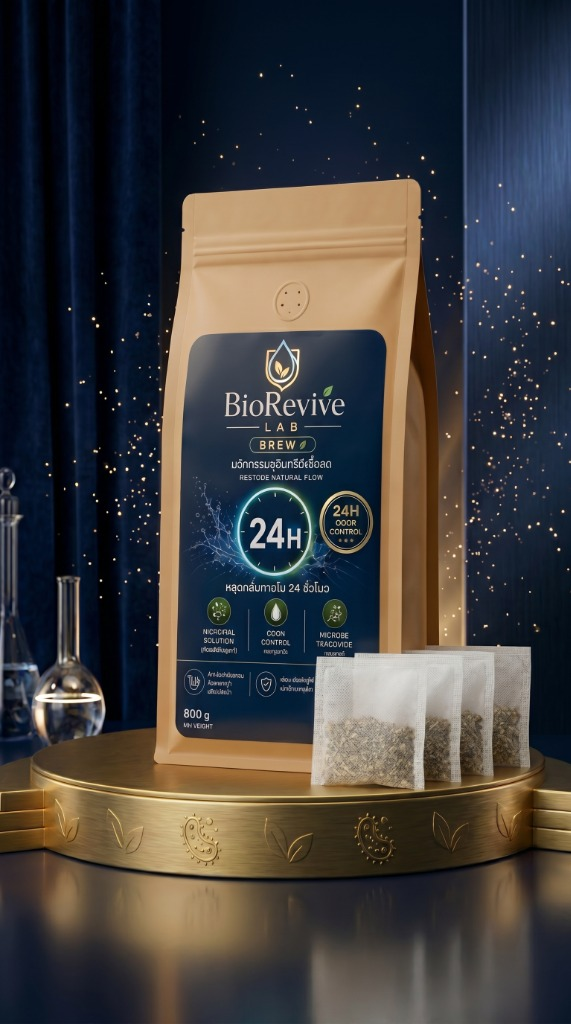
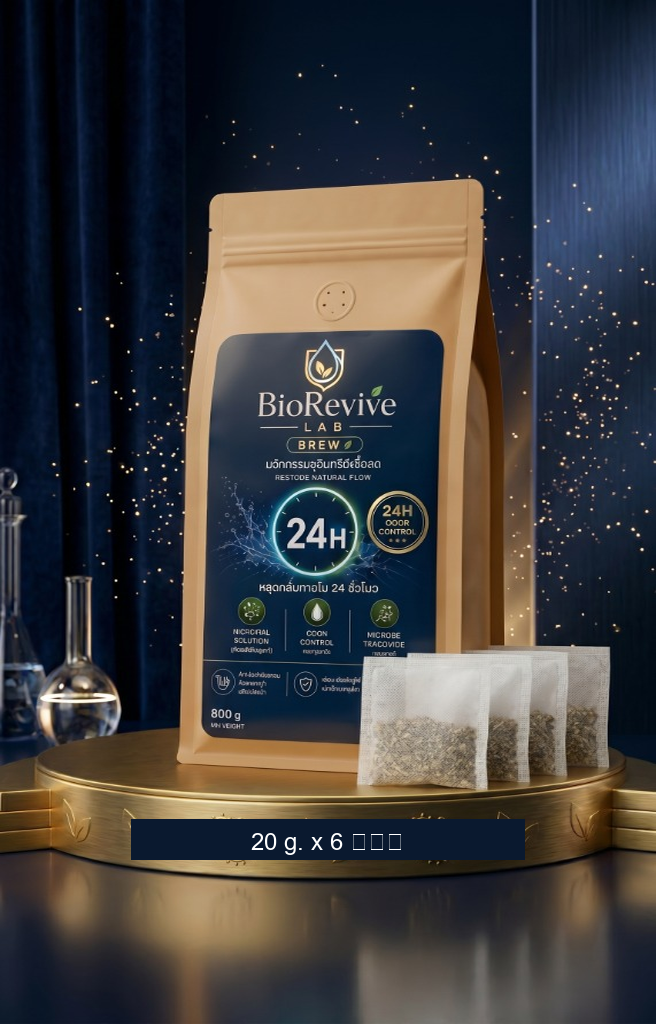
feat: update website with premium product catalogs and separate product ads

Changed region(s): [[0.1786, 0.7812, 0.8039, 0.8438]]

diff --git a/index.html b/index.html
@@ -313,28 +313,43 @@
     <section class="section-padding" id="pricing" style="background:#F8FAFC;">
         <div class="container text-center">
             <h2 data-i18n="prod_title" style="font-size: 2.5rem; margin-bottom: 50px;">ผลิตภัณฑ์ BioRevive Lab</h2>
-            <div style="display:grid; grid-template-columns: repeat(auto-fit, minmax(280px, 1fr)); gap:30px;">
+            <div style="display:grid; grid-template-columns: repeat(auto-fit, minmax(240px, 1fr)); gap:25px;">
+                <!-- 1L Liquid -->
                 <div class="pricing-card">
-                    <img src="assets/ad_liquid.png" style="width:100%; border-radius:15px; margin-bottom:20px;">
-                    <h3 data-i18n="prod_liquid">สูตรน้ำ (Liquid)</h3>
-
-                    <button onclick="addToCart('Liquid 5L', 1890)" class="btn-buy pulse-cta"><span data-i18n="prod_size_5l">5 ลิตร</span>: 1,890 ฿</button>
-                    <button onclick="addToCart('Liquid 1L', 380)" class="btn-buy pulse-cta" style="background:none; border:2px solid #162C4E; color:#162C4E;"><span data-i18n="prod_size_1l">1 ลิตร</span>: 380 ฿</button>
+                    <img src="assets/catalog/catalog_liquid_1l.png" style="width:100%; border-radius:15px; margin-bottom:20px;">
+                    <h3 data-i18n="prod_liquid_1l">สูตรน้ำ 1 ลิตร</h3>
+                    <p style="color:#64748B; margin-bottom:15px;">ทรงเหลี่ยม กะทัดรัด</p>
+                    <button onclick="addToCart('Liquid 1L', 380)" class="btn-buy pulse-cta" style="background:#162C4E;">380 ฿</button>
                 </div>
+                <!-- 5L Liquid -->
                 <div class="pricing-card popular">
-                    <div style="background:#C5A059; color:white; padding:5px 20px; border-radius:20px; font-weight:bold; display:inline-block; margin-bottom:15px;" data-i18n="promo_popular">BEST SELLER</div>
-                    <img src="assets/ad_concentrated.png" style="width:100%; border-radius:15px; margin-bottom:20px;">
-                    <h3 data-i18n="prod_premium">สูตรพรีเมี่ยม (Premium)</h3>
-
-                    <button onclick="addToCart('Premium 6kg', 3500)" class="btn-buy btn-buy-gold pulse-cta"><span data-i18n="prod_size_6kg">6 kg</span>: 3,500 ฿</button>
-                    <button onclick="addToCart('Premium 1kg', 800)" class="btn-buy pulse-cta" style="background:none; border:2px solid #C5A059; color:#C5A059;"><span data-i18n="prod_size_1kg">1 kg</span>: 800 ฿</button>
+                    <div style="background:#C5A059; color:white; padding:5px 15px; border-radius:20px; font-weight:bold; display:inline-block; margin-bottom:10px; font-size:0.8rem;">POPULAR</div>
+                    <img src="assets/catalog/catalog_liquid_5l.png" style="width:100%; border-radius:15px; margin-bottom:20px;">
+                    <h3 data-i18n="prod_liquid_5l">สูตรน้ำ 5 ลิตร</h3>
+                    <p style="color:#64748B; margin-bottom:15px;">ไซส์ประหยัด คุ้มค่า</p>
+                    <button onclick="addToCart('Liquid 5L', 1890)" class="btn-buy btn-buy-gold pulse-cta">1,890 ฿</button>
                 </div>
+                <!-- 1kg Premium -->
                 <div class="pricing-card">
-                    <img src="assets/ad_teabag_final.png" style="width:100%; border-radius:15px; margin-bottom:20px;">
-                    <h3 data-i18n="prod_teabag">แบบซองชา (Tea bag)</h3>
-                    <p data-i18n="prod_teabag_desc" style="margin-bottom:15px; color:#64748B;">1 ซอง บรรจุ 6 ชิ้น / ชิ้นละ 20 g.</p>
-
-                    <button onclick="addToCart('Tea bag 1 pack', 299)" class="btn-buy pulse-cta"><span data-i18n="prod_size_1pack">1 ซอง</span>: 299 ฿</button>
+                    <img src="assets/catalog/catalog_pouch_1kg.png" style="width:100%; border-radius:15px; margin-bottom:20px;">
+                    <h3 data-i18n="prod_premium_1kg">สูตรพรีเมี่ยม 1 kg</h3>
+                    <p style="color:#64748B; margin-bottom:15px;">ชนิดผงเข้มข้น</p>
+                    <button onclick="addToCart('Premium 1kg', 800)" class="btn-buy pulse-cta" style="background:#162C4E;">800 ฿</button>
+                </div>
+                <!-- 6kg Premium -->
+                <div class="pricing-card popular">
+                    <div style="background:#C5A059; color:white; padding:5px 15px; border-radius:20px; font-weight:bold; display:inline-block; margin-bottom:10px; font-size:0.8rem;">BEST VALUE</div>
+                    <img src="assets/catalog/catalog_bucket_6kg.png" style="width:100%; border-radius:15px; margin-bottom:20px;">
+                    <h3 data-i18n="prod_premium_6kg">สูตรพรีเมี่ยม 6 kg</h3>
+                    <p style="color:#64748B; margin-bottom:15px;">ถังใหญ่ สำหรับธุรกิจ</p>
+                    <button onclick="addToCart('Premium 6kg', 3500)" class="btn-buy btn-buy-gold pulse-cta">3,500 ฿</button>
+                </div>
+                <!-- Teabag -->
+                <div class="pricing-card">
+                    <img src="assets/catalog/catalog_teabag.png" style="width:100%; border-radius:15px; margin-bottom:20px;">
+                    <h3 data-i18n="prod_teabag">แบบซองชา 20g</h3>
+                    <p data-i18n="prod_teabag_desc" style="margin-bottom:15px; color:#64748B;">บรรจุ 6 ชิ้นต่อถุง</p>
+                    <button onclick="addToCart('Tea bag 1 pack', 299)" class="btn-buy pulse-cta" style="background:#162C4E;">299 ฿</button>
                 </div>
             </div>
         </div>
